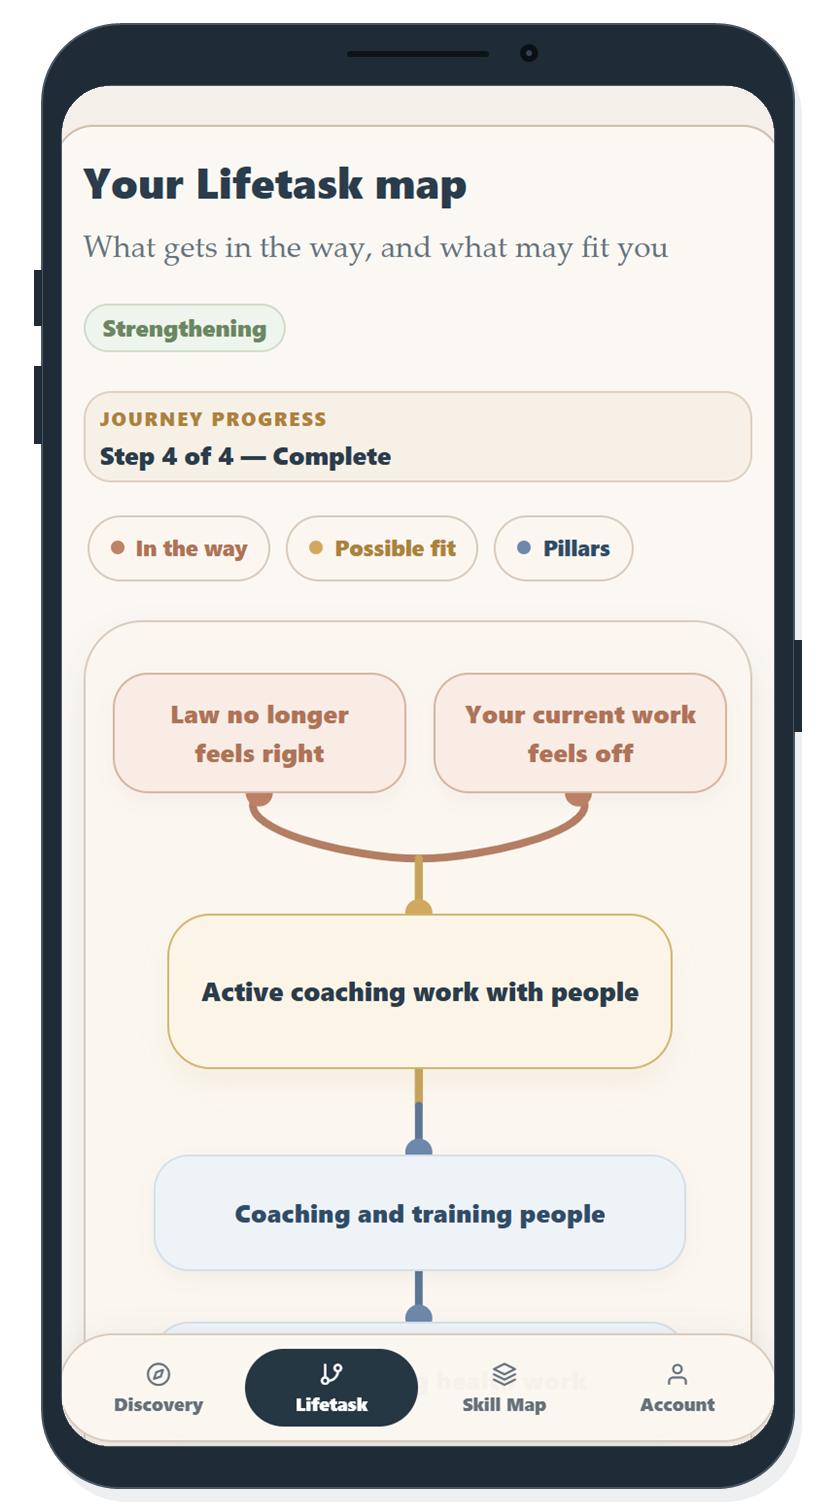
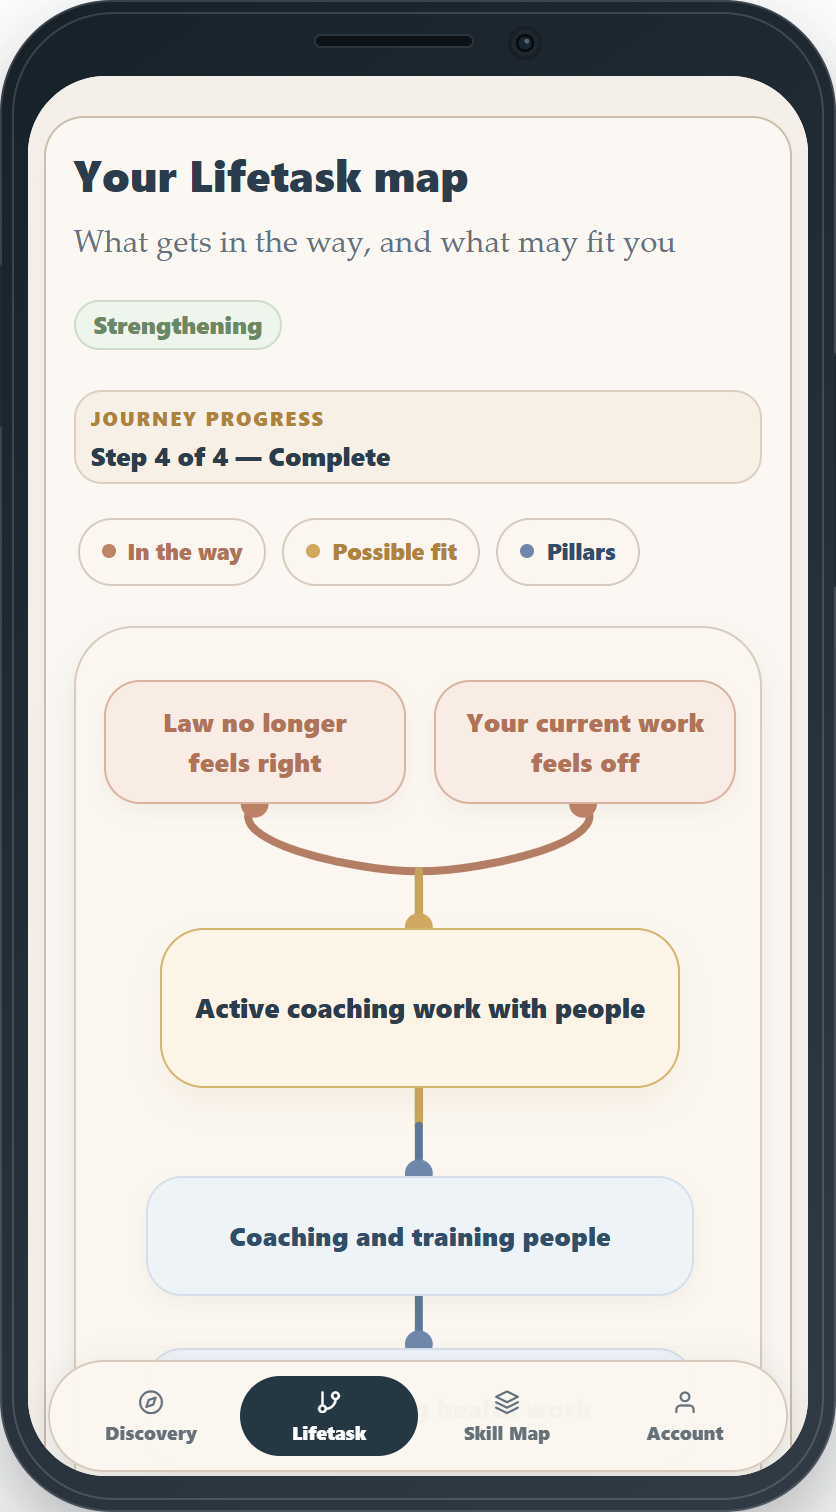
Refine landing app preview order

diff --git a/index.html b/index.html
@@ -48,12 +48,12 @@
               <p>Understand how your experiences have shaped your personality, skills, and intrinsic interests.</p>
             </article>
             <article>
-              <h2>Create a Skill Map</h2>
-              <p>Turn lived examples into strengths, developing skills, and early signals worth tracking.</p>
+              <h2>Lifetask Map</h2>
+              <p>See what gets in the way, what may fit you, and the through-line your answers are starting to reveal.</p>
             </article>
             <article>
-              <h2>Clarify Your Direction</h2>
-              <p>Build a living map of what fits, what gets in the way, and what kind of work gives you energy.</p>
+              <h2>Skill Map</h2>
+              <p>Turn lived examples into strengths, developing skills, and early signals worth tracking.</p>
             </article>
           </div>
           <div class="phone-preview" aria-label="LifeTask mobile app previews">
@@ -63,7 +63,7 @@
                 <figcaption>Discovery</figcaption>
               </figure>
               <figure class="phone-shot phone-shot-main">
-                <img class="phone-image" src="./assets/mobile-direction-phone.png" alt="LifeTask direction map screen" />
+                <img class="phone-image" src="./assets/mobile-direction-phone.png" alt="LifeTask map screen" />
                 <figcaption>Lifetask map</figcaption>
               </figure>
               <figure class="phone-shot phone-shot-right">

diff --git a/styles.css b/styles.css
@@ -1226,7 +1226,7 @@ p {
 
 @media (min-width: 981px) {
   .phone-track {
-    transform: scale(1.22);
+    transform: scale(1.08);
     transform-origin: center;
   }
 }